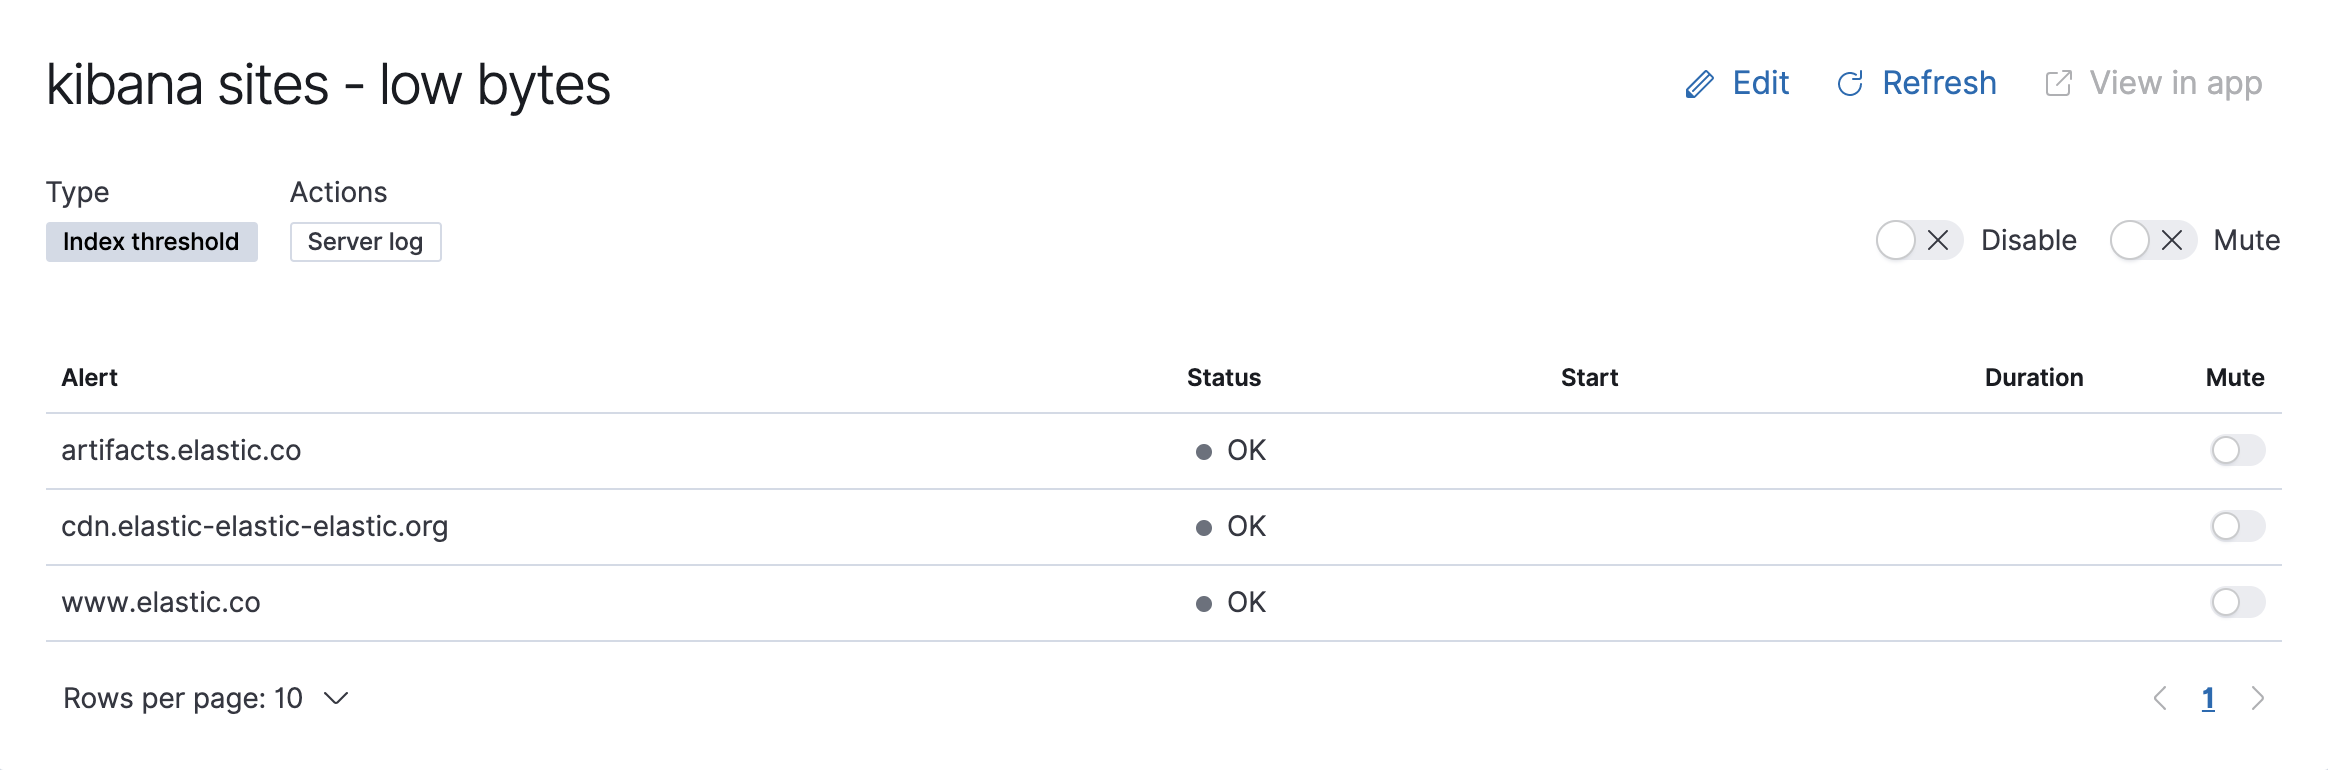
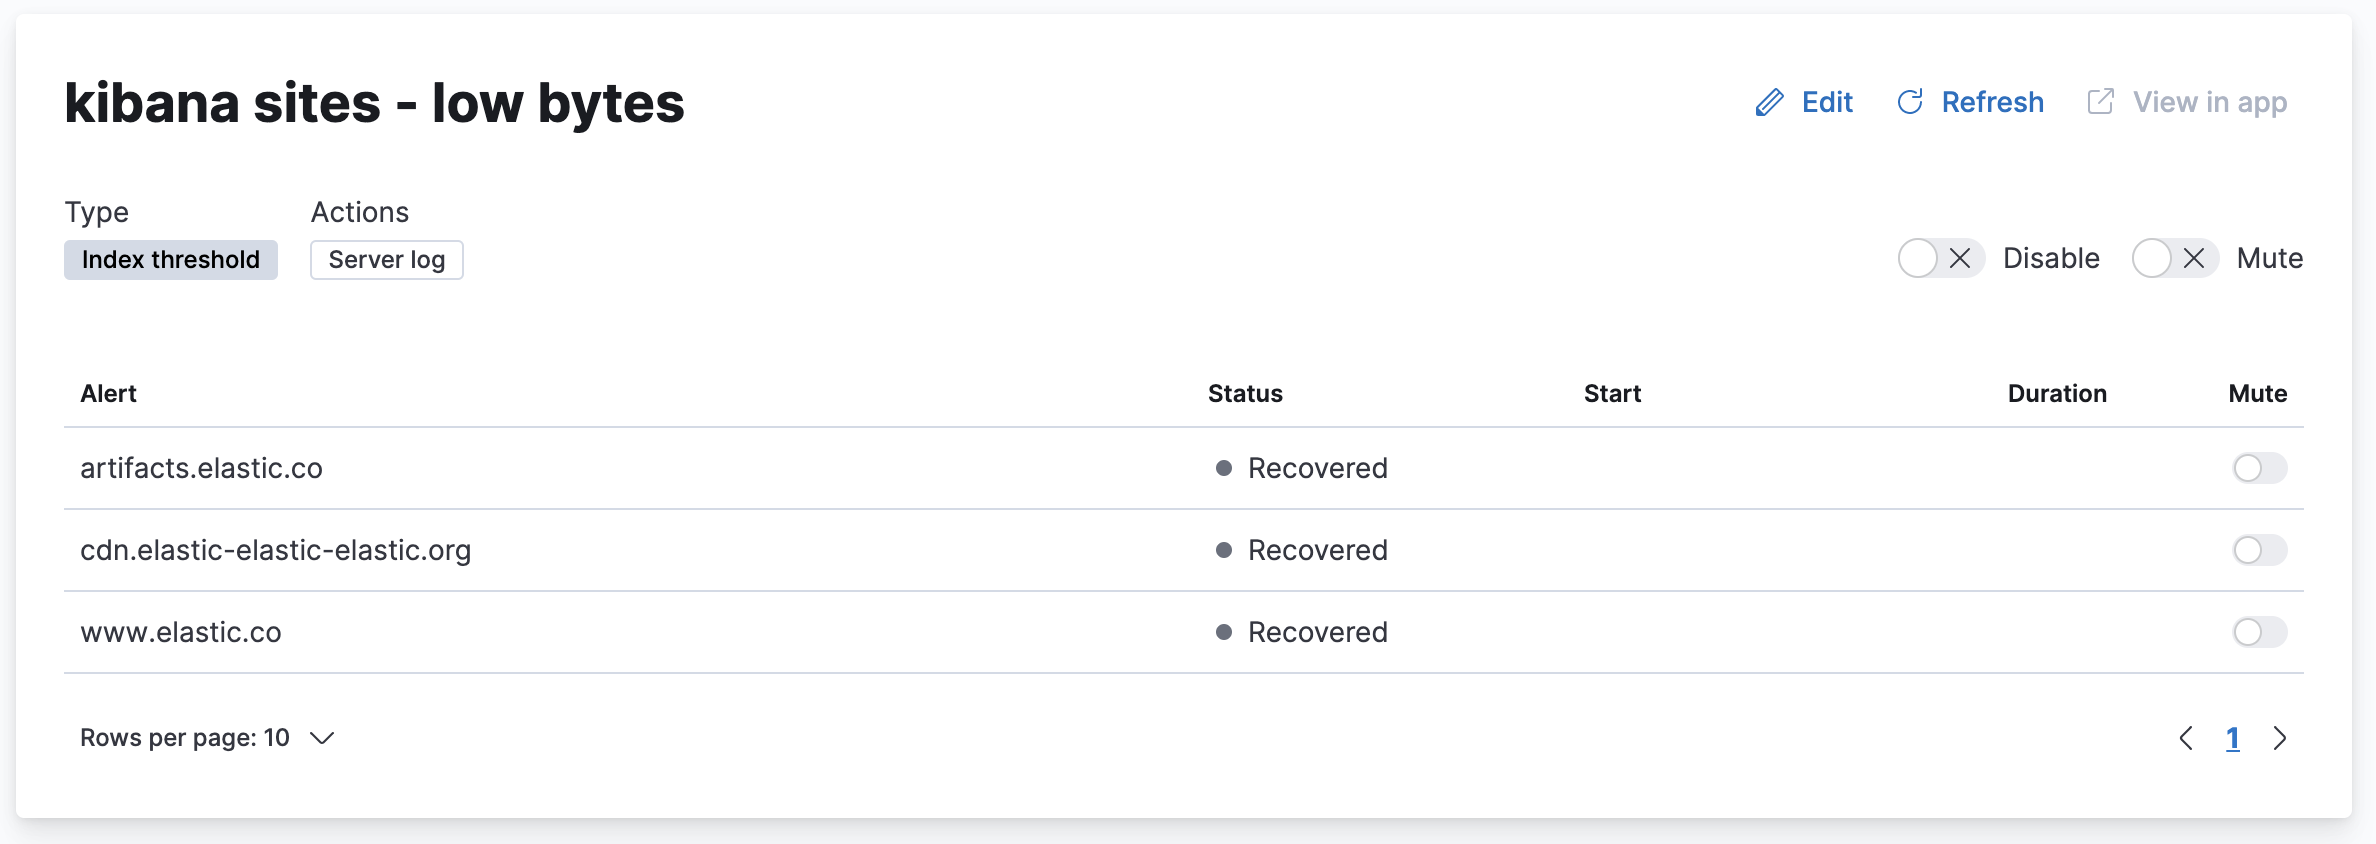
Rename alert status OK to Recovered and fix some UX issues around disabling a rule while being in an error state (#98135)
* Fix UX when alert is disabled and in an error state

* Reset executionStatus to pending after enabling an alert

* Renames alert instance status OK to Recovered

* Fix end to end test

* Update doc screenshot

* Fix confusing test name

* Remove flakiness in integration test

diff --git a/x-pack/plugins/triggers_actions_ui/public/application/sections/alert_details/components/alert_details.test.tsx b/x-pack/plugins/triggers_actions_ui/public/application/sections/alert_details/components/alert_details.test.tsx
@@ -8,6 +8,8 @@
 import * as React from 'react';
 import uuid from 'uuid';
 import { shallow } from 'enzyme';
+import { mountWithIntl, nextTick } from '@kbn/test/jest';
+import { act } from '@testing-library/react';
 import { AlertDetails } from './alert_details';
 import { Alert, ActionType, AlertTypeModel, AlertType } from '../../../../types';
 import { EuiTitle, EuiBadge, EuiFlexItem, EuiSwitch, EuiButtonEmpty, EuiText } from '@elastic/eui';
@@ -462,6 +464,74 @@ describe('disable button', () => {
     expect(enableAlert).toHaveBeenCalledTimes(0);
     handler!({} as React.FormEvent);
     expect(enableAlert).toHaveBeenCalledTimes(1);
+  });
+
+  it('should reset error banner dismissal after re-enabling the alert', async () => {
+    const alert = mockAlert({
+      enabled: true,
+      executionStatus: {
+        status: 'error',
+        lastExecutionDate: new Date('2020-08-20T19:23:38Z'),
+        error: {
+          reason: AlertExecutionStatusErrorReasons.Execute,
+          message: 'Fail',
+        },
+      },
+    });
+
+    const alertType: AlertType = {
+      id: '.noop',
+      name: 'No Op',
+      actionGroups: [{ id: 'default', name: 'Default' }],
+      recoveryActionGroup,
+      actionVariables: { context: [], state: [], params: [] },
+      defaultActionGroupId: 'default',
+      producer: ALERTS_FEATURE_ID,
+      authorizedConsumers,
+      minimumLicenseRequired: 'basic',
+      enabledInLicense: true,
+    };
+
+    const disableAlert = jest.fn();
+    const enableAlert = jest.fn();
+    const wrapper = mountWithIntl(
+      <AlertDetails
+        alert={alert}
+        alertType={alertType}
+        actionTypes={[]}
+        {...mockAlertApis}
+        disableAlert={disableAlert}
+        enableAlert={enableAlert}
+      />
+    );
+
+    await act(async () => {
+      await nextTick();
+      wrapper.update();
+    });
+
+    // Dismiss the error banner
+    await act(async () => {
+      wrapper.find('[data-test-subj="dismiss-execution-error"]').first().simulate('click');
+      await nextTick();
+    });
+
+    // Disable the alert
+    await act(async () => {
+      wrapper.find('[data-test-subj="disableSwitch"] .euiSwitch__button').first().simulate('click');
+      await nextTick();
+    });
+    expect(disableAlert).toHaveBeenCalled();
+
+    // Enable the alert
+    await act(async () => {
+      wrapper.find('[data-test-subj="disableSwitch"] .euiSwitch__button').first().simulate('click');
+      await nextTick();
+    });
+    expect(enableAlert).toHaveBeenCalled();
+
+    // Ensure error banner is back
+    expect(wrapper.find('[data-test-subj="dismiss-execution-error"]').length).toBeGreaterThan(0);
   });
 });
 

diff --git a/x-pack/plugins/triggers_actions_ui/public/application/sections/alert_details/components/alert_details.tsx b/x-pack/plugins/triggers_actions_ui/public/application/sections/alert_details/components/alert_details.tsx
@@ -236,6 +236,8 @@ export const AlertDetails: React.FunctionComponent<AlertDetailsProps> = ({
                         if (isEnabled) {
                           setIsEnabled(false);
                           await disableAlert(alert);
+                          // Reset dismiss if previously clicked
+                          setDissmissAlertErrors(false);
                         } else {
                           setIsEnabled(true);
                           await enableAlert(alert);
@@ -277,7 +279,7 @@ export const AlertDetails: React.FunctionComponent<AlertDetailsProps> = ({
                 </EuiFlexGroup>
               </EuiFlexItem>
             </EuiFlexGroup>
-            {!dissmissAlertErrors && alert.executionStatus.status === 'error' ? (
+            {alert.enabled && !dissmissAlertErrors && alert.executionStatus.status === 'error' ? (
               <EuiFlexGroup>
                 <EuiFlexItem>
                   <EuiCallOut
@@ -293,7 +295,11 @@ export const AlertDetails: React.FunctionComponent<AlertDetailsProps> = ({
                     <EuiSpacer size="s" />
                     <EuiFlexGroup gutterSize="s" wrap={true}>
                       <EuiFlexItem grow={false}>
-                        <EuiButton color="danger" onClick={() => setDissmissAlertErrors(true)}>
+                        <EuiButton
+                          data-test-subj="dismiss-execution-error"
+                          color="danger"
+                          onClick={() => setDissmissAlertErrors(true)}
+                        >
                           <FormattedMessage
                             id="xpack.triggersActionsUI.sections.alertDetails.dismissButtonTitle"
                             defaultMessage="Dismiss"

diff --git a/x-pack/plugins/alerting/server/alerts_client/tests/enable.test.ts b/x-pack/plugins/alerting/server/alerts_client/tests/enable.test.ts
@@ -248,6 +248,11 @@ describe('enable()', () => {
             },
           },
         ],
+        executionStatus: {
+          status: 'pending',
+          lastExecutionDate: '2019-02-12T21:01:22.479Z',
+          error: null,
+        },
       },
       {
         version: '123',
@@ -352,6 +357,11 @@ describe('enable()', () => {
             },
           },
         ],
+        executionStatus: {
+          status: 'pending',
+          lastExecutionDate: '2019-02-12T21:01:22.479Z',
+          error: null,
+        },
       },
       {
         version: '123',

diff --git a/x-pack/plugins/alerting/server/alerts_client/alerts_client.ts b/x-pack/plugins/alerting/server/alerts_client/alerts_client.ts
@@ -981,6 +981,11 @@ export class AlertsClient {
         ...this.apiKeyAsAlertAttributes(createdAPIKey, username),
         updatedBy: username,
         updatedAt: new Date().toISOString(),
+        executionStatus: {
+          status: 'pending',
+          lastExecutionDate: new Date().toISOString(),
+          error: null,
+        },
       });
       try {
         await this.unsecuredSavedObjectsClient.update('alert', id, updateAttributes, { version });

diff --git a/x-pack/plugins/triggers_actions_ui/public/application/sections/alert_details/components/alert_instances.test.tsx b/x-pack/plugins/triggers_actions_ui/public/application/sections/alert_details/components/alert_instances.test.tsx
@@ -262,7 +262,7 @@ describe('alertInstanceToListItem', () => {
     };
     expect(alertInstanceToListItem(fakeNow.getTime(), alertType, 'id', instance)).toEqual({
       instance: 'id',
-      status: { label: 'OK', healthColor: 'subdued' },
+      status: { label: 'Recovered', healthColor: 'subdued' },
       start: undefined,
       duration: 0,
       sortPriority: 1,

diff --git a/x-pack/plugins/triggers_actions_ui/public/application/sections/alert_details/components/alert_instances.tsx b/x-pack/plugins/triggers_actions_ui/public/application/sections/alert_details/components/alert_instances.tsx
@@ -226,7 +226,7 @@ const ACTIVE_LABEL = i18n.translate(
 
 const INACTIVE_LABEL = i18n.translate(
   'xpack.triggersActionsUI.sections.alertDetails.alertInstancesList.status.inactive',
-  { defaultMessage: 'OK' }
+  { defaultMessage: 'Recovered' }
 );
 
 function getActionGroupName(alertType: AlertType, actionGroupId?: string): string | undefined {

diff --git a/x-pack/test/functional_with_es_ssl/apps/triggers_actions_ui/details.ts b/x-pack/test/functional_with_es_ssl/apps/triggers_actions_ui/details.ts
@@ -655,7 +655,7 @@ export default ({ getPageObjects, getService }: FtrProviderContext) => {
         ).to.eql([
           {
             instance: 'eu/east',
-            status: 'OK',
+            status: 'Recovered',
             start: '',
             duration: '',
           },
